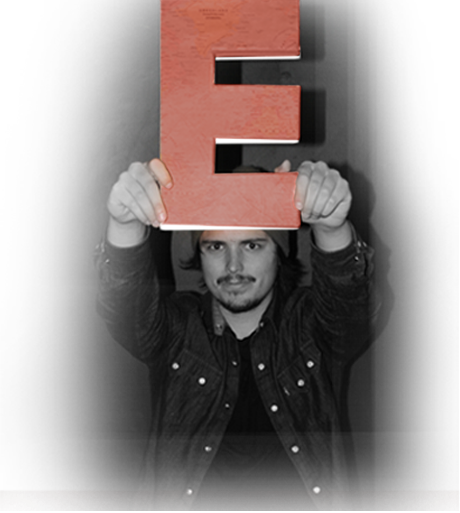
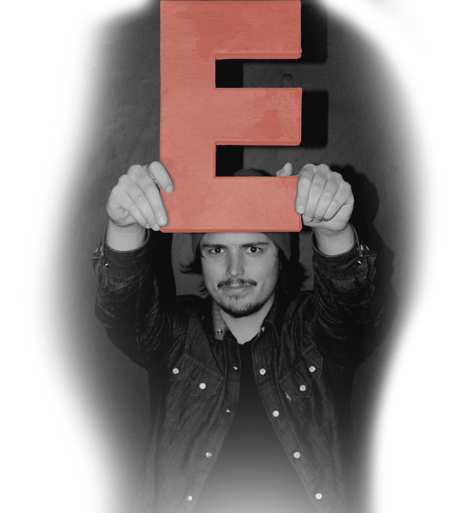
Improved the picture of me with the E

diff --git a/css/style.css b/css/style.css
@@ -54,10 +54,11 @@ a {
 
 .typed {
   color: #fff;
-  font-size: 1.7em;
+  font-size: 2em;
   font-weight: 700;
   text-transform: uppercase;
-  letter-spacing: 0.2em; }
+  letter-spacing: 0.2em;
+  text-align: left !important; }
 
 .button {
   color: #fff;
@@ -78,6 +79,8 @@ a {
       margin: 15px 0px; } }
 
 #typed-cursor {
+  color: #fff;
+  font-size: 2em;
   opacity: 1;
   font-weight: 100;
   -webkit-animation: blink 0.7s infinite;
@@ -224,7 +227,7 @@ ul.social {
   font-weight: 700; }
   .name .me-with-e {
     width: 47%;
-    margin: 4.75% -10% 0px -12%;
+    margin: 4.70% -10% 0px -12%;
     vertical-align: top; }
 
 .call-to-action {

diff --git a/css/sass/_fonts.scss b/css/sass/_fonts.scss
@@ -15,10 +15,11 @@ a {
 
 .typed {
     color: #fff;
-    font-size: 1.7em;
+    font-size: 2em;
     font-weight: 700;
     text-transform: uppercase;
     letter-spacing: 0.2em;
+    text-align: left !important;
 }
 
 .button {

diff --git a/css/sass/style.scss b/css/sass/style.scss
@@ -119,7 +119,7 @@ ul.social {
 
     .me-with-e {
         width: 47%;
-        margin: 4.75% -10% 0px -12%;
+        margin: 4.70% -10% 0px -12%;
         vertical-align: top;
     }
 }

diff --git a/css/sass/_typed.scss b/css/sass/_typed.scss
@@ -1,4 +1,6 @@
 #typed-cursor{
+    color: #fff;
+    font-size: 2em;
     opacity: 1;
     font-weight: 100;
     -webkit-animation: blink 0.7s infinite;

diff --git a/index.php b/index.php
@@ -2,6 +2,8 @@
 	<head>
 		<title>Tedd Arcuri | Web Designer &amp; Developer</title>
 
+		<meta name="viewport" content="width=device-width; initial-scale=1.0; maximum-scale=1.0; user-scalable=0;" />
+
 		<!-- Stylesheet -->
 		<link rel="stylesheet" href="/css/style.css" type="text/css" charset="utf-8">
 	</head>
@@ -33,11 +35,9 @@
 					<h1 class="name">T<img class="me-with-e" src="img/me-with-e.png" alt="" />dd</h1>
 				</div>
 				<div class="call-to-action">
-					<center>
-					<div class="typed"></div>
+					<span class="typed"><span id="typed-cursor"></span></span><br />
 					<a class="button">A little about me</a>
 					<a class="button">See my work</a>
-					</center>
 				</div>
 			</div>
 		</div> <!-- End Hello -->
@@ -52,8 +52,8 @@
 
 		$(function(){
 		    $(".typed").typed({
-		    strings: ["I Design. I Code. I Solve Problems."],
-		    typeSpeed: 100
+		    	strings: ["I Design. I Code. I Solve Problems"],
+		    	typeSpeed: 100
 		    });
 		});
 
